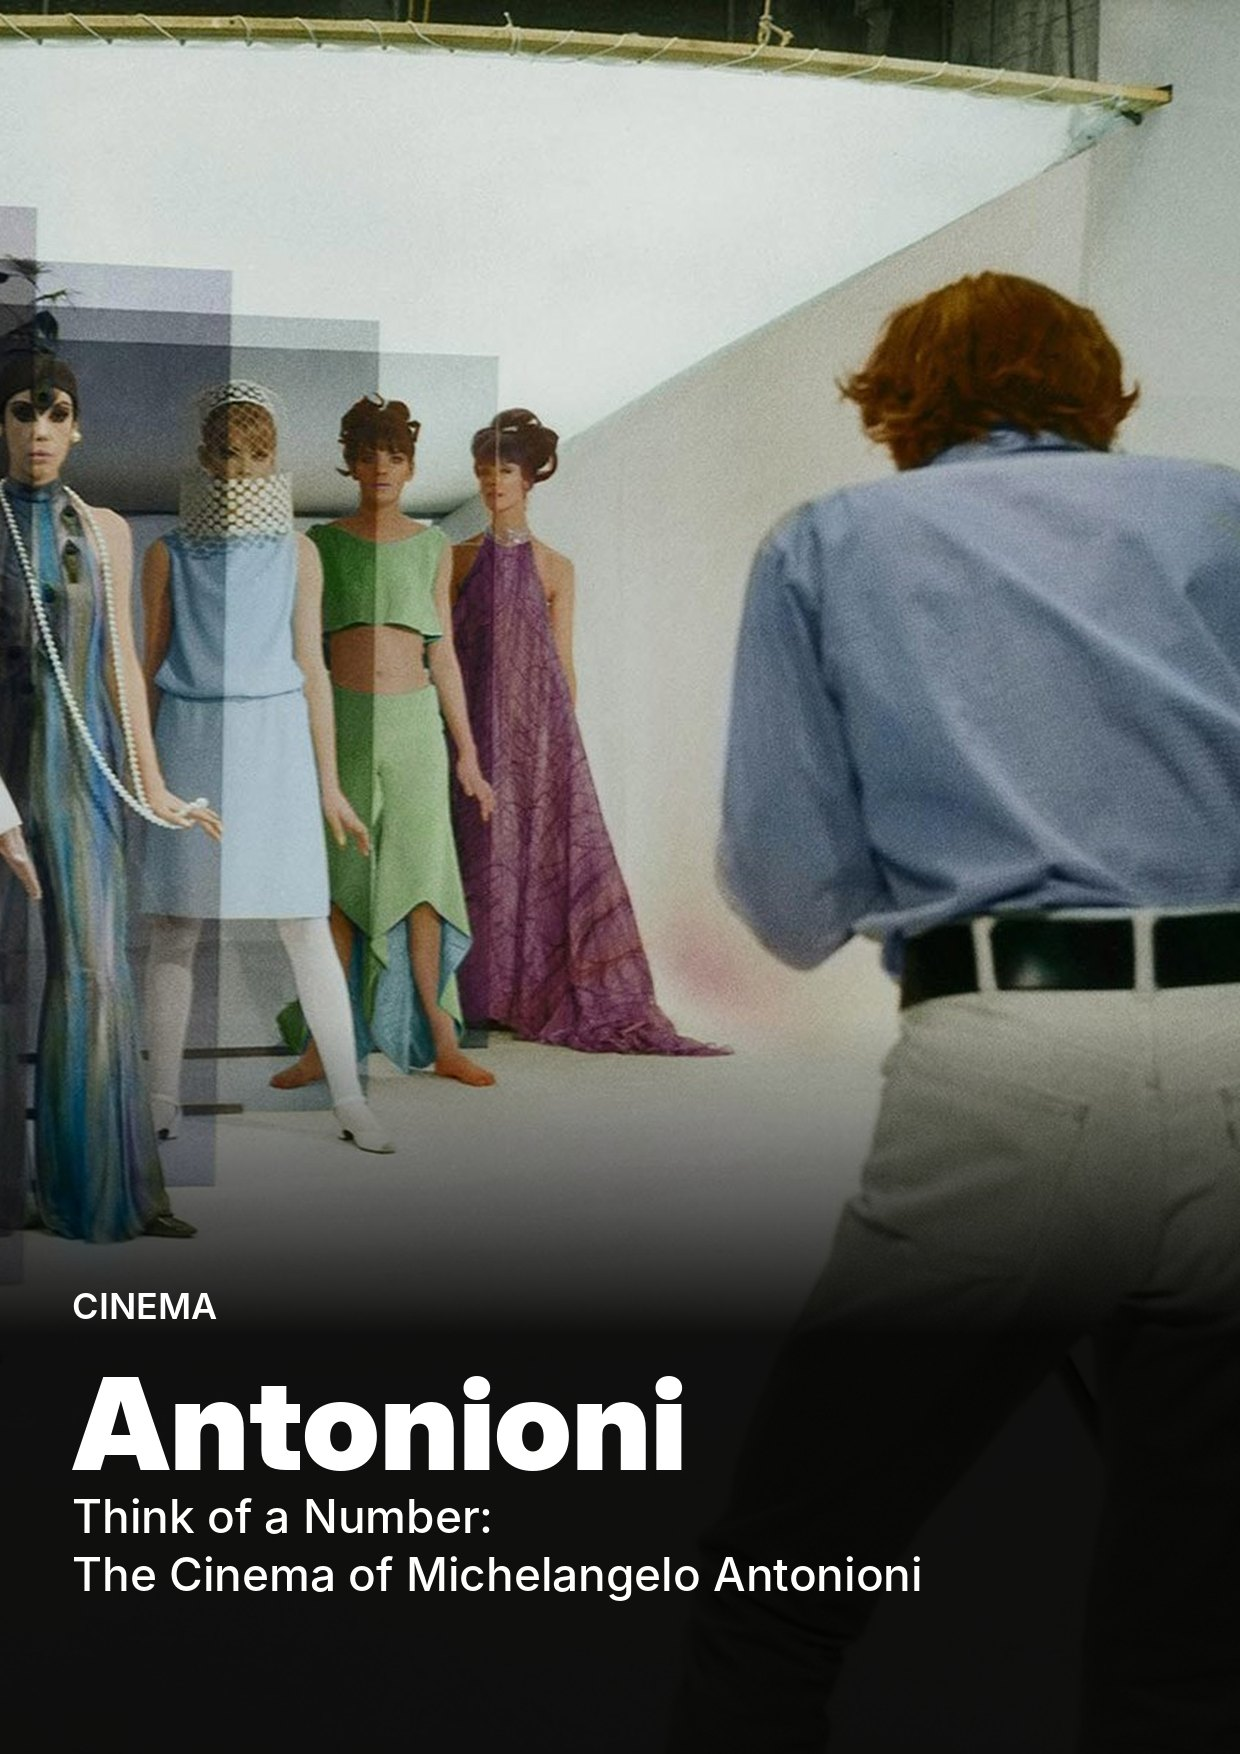
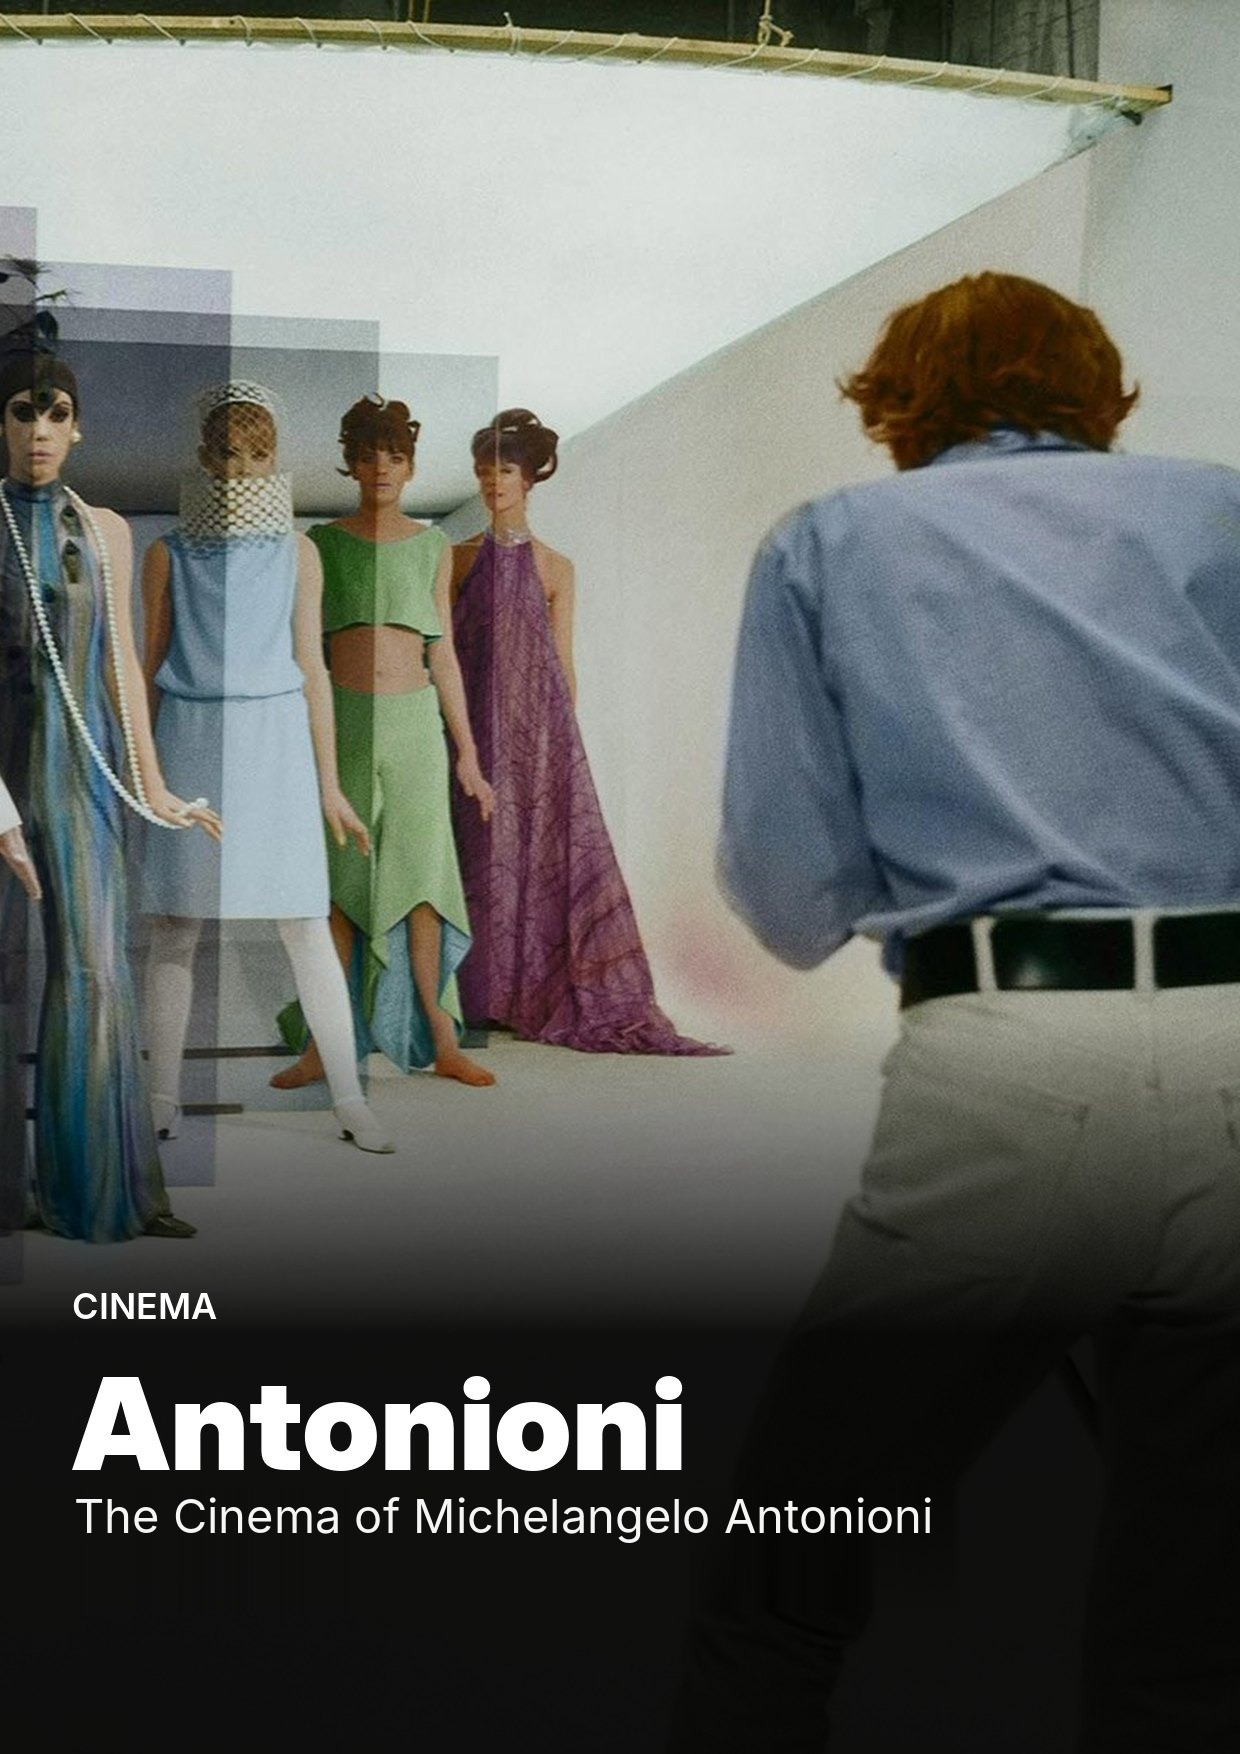
Antonioni article: remove 'Think of a Number' from title
Claude-Session: https://claude.ai/code/session_01BHxjzkN2JnKCL3Q4RUhGs4

Changed region(s): [[0.0613, 0.8312, 0.7661, 0.9236]]

diff --git a/content.js b/content.js
@@ -64,7 +64,7 @@ window.SITE = {
     {"id": "casa-malaparte", "h": "Casa Malaparte and Godard in Jacquemus’s Latest Collection", "cover": "images/mag/casa-malaparte/cover.jpg", "pages": ["images/mag/casa-malaparte/page-01.jpg", "images/mag/casa-malaparte/page-02.jpg"], "cat": "fashion"},
     {"id": "vivienne-westwood", "h": "Vivienne Westwood — No-Man's Land: Against Climate Change", "cover": "images/mag/vivienne-westwood/cover.jpg", "pages": ["images/mag/vivienne-westwood/page-01.jpg", "images/mag/vivienne-westwood/page-02.jpg"], "cat": "fashion"},
     {"id": "sergei-parajanov", "h": "Sergei Parajanov — Shadows of Forgotten Ancestors", "cover": "images/mag/sergei-parajanov/cover.jpg", "pages": ["images/mag/sergei-parajanov/page-01.jpg", "images/mag/sergei-parajanov/page-02.jpg"], "cat": "cinema"},
-    {"id": "antonioni", "h": "Think of a Number: The Cinema of Michelangelo Antonioni", "cover": "images/mag/antonioni/cover.jpg", "pages": ["images/mag/antonioni/page-01.jpg", "images/mag/antonioni/page-02.jpg", "images/mag/antonioni/page-03.jpg", "images/mag/antonioni/page-04.jpg"], "cat": "cinema"},
+    {"id": "antonioni", "h": "The Cinema of Michelangelo Antonioni", "cover": "images/mag/antonioni/cover.jpg?v=2", "pages": ["images/mag/antonioni/page-01.jpg?v=2", "images/mag/antonioni/page-02.jpg", "images/mag/antonioni/page-03.jpg", "images/mag/antonioni/page-04.jpg"], "cat": "cinema"},
     {"id": "authors-column", "h": "Author's Column — The Story Behind One Artwork", "cover": "images/mag/authors-column/cover.jpg", "pages": ["images/mag/authors-column/page-01.jpg", "images/mag/authors-column/page-02.jpg", "images/mag/authors-column/page-03.jpg", "images/mag/authors-column/page-04.jpg"], "cat": "art"}
   ],
   // Editorial Features: headline + photo grid
